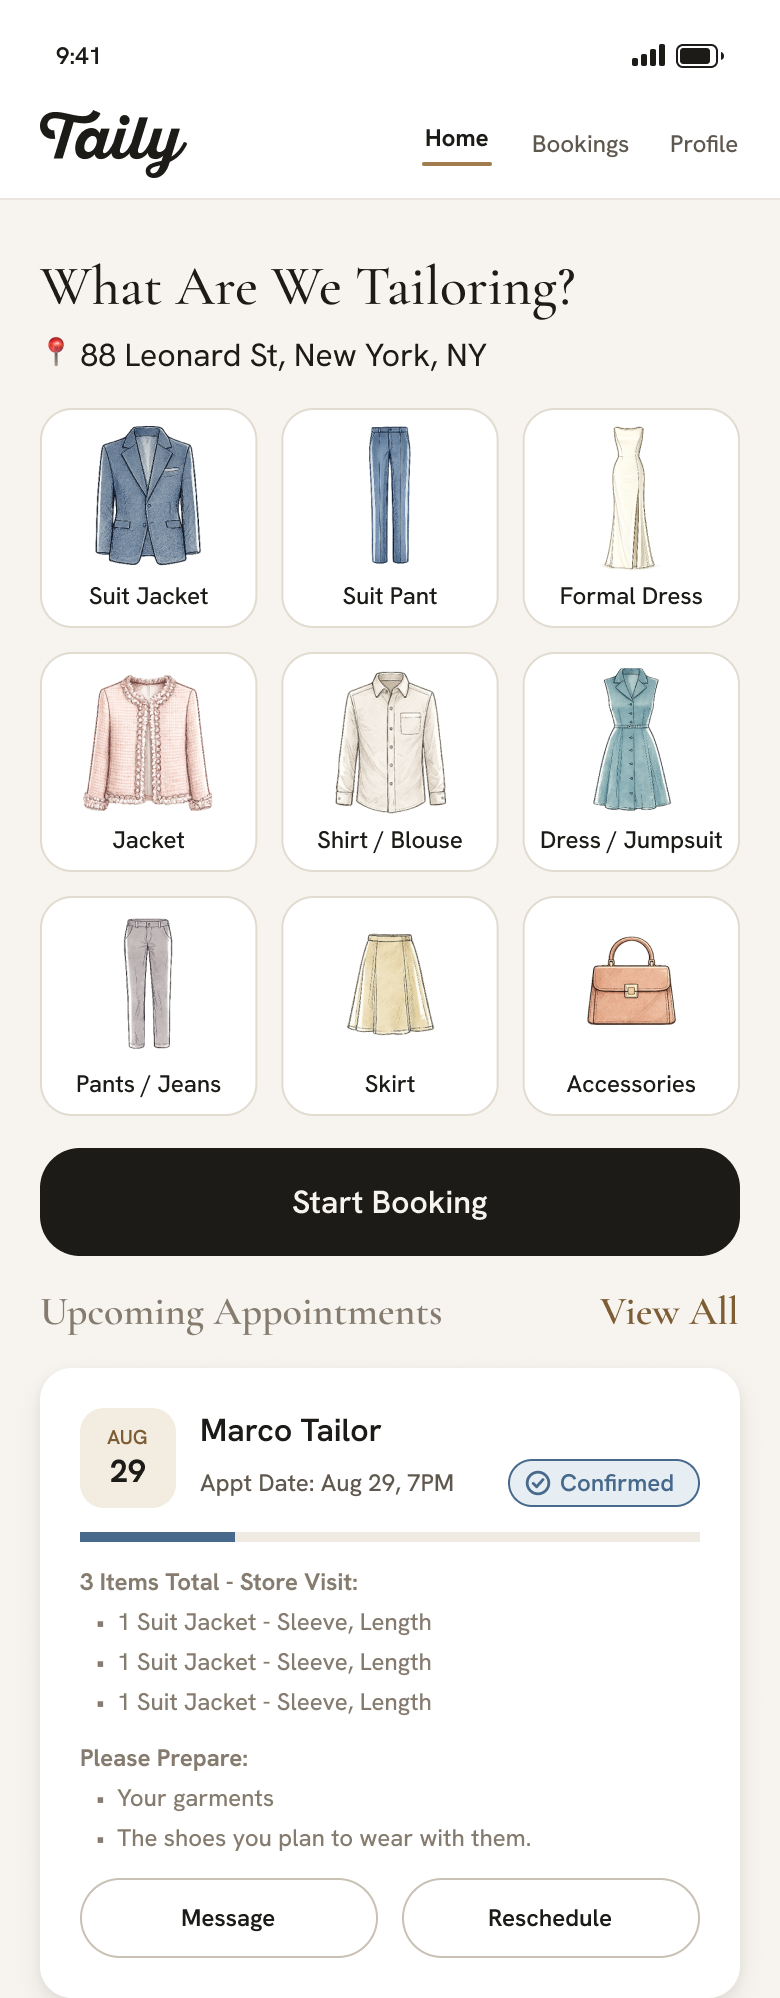
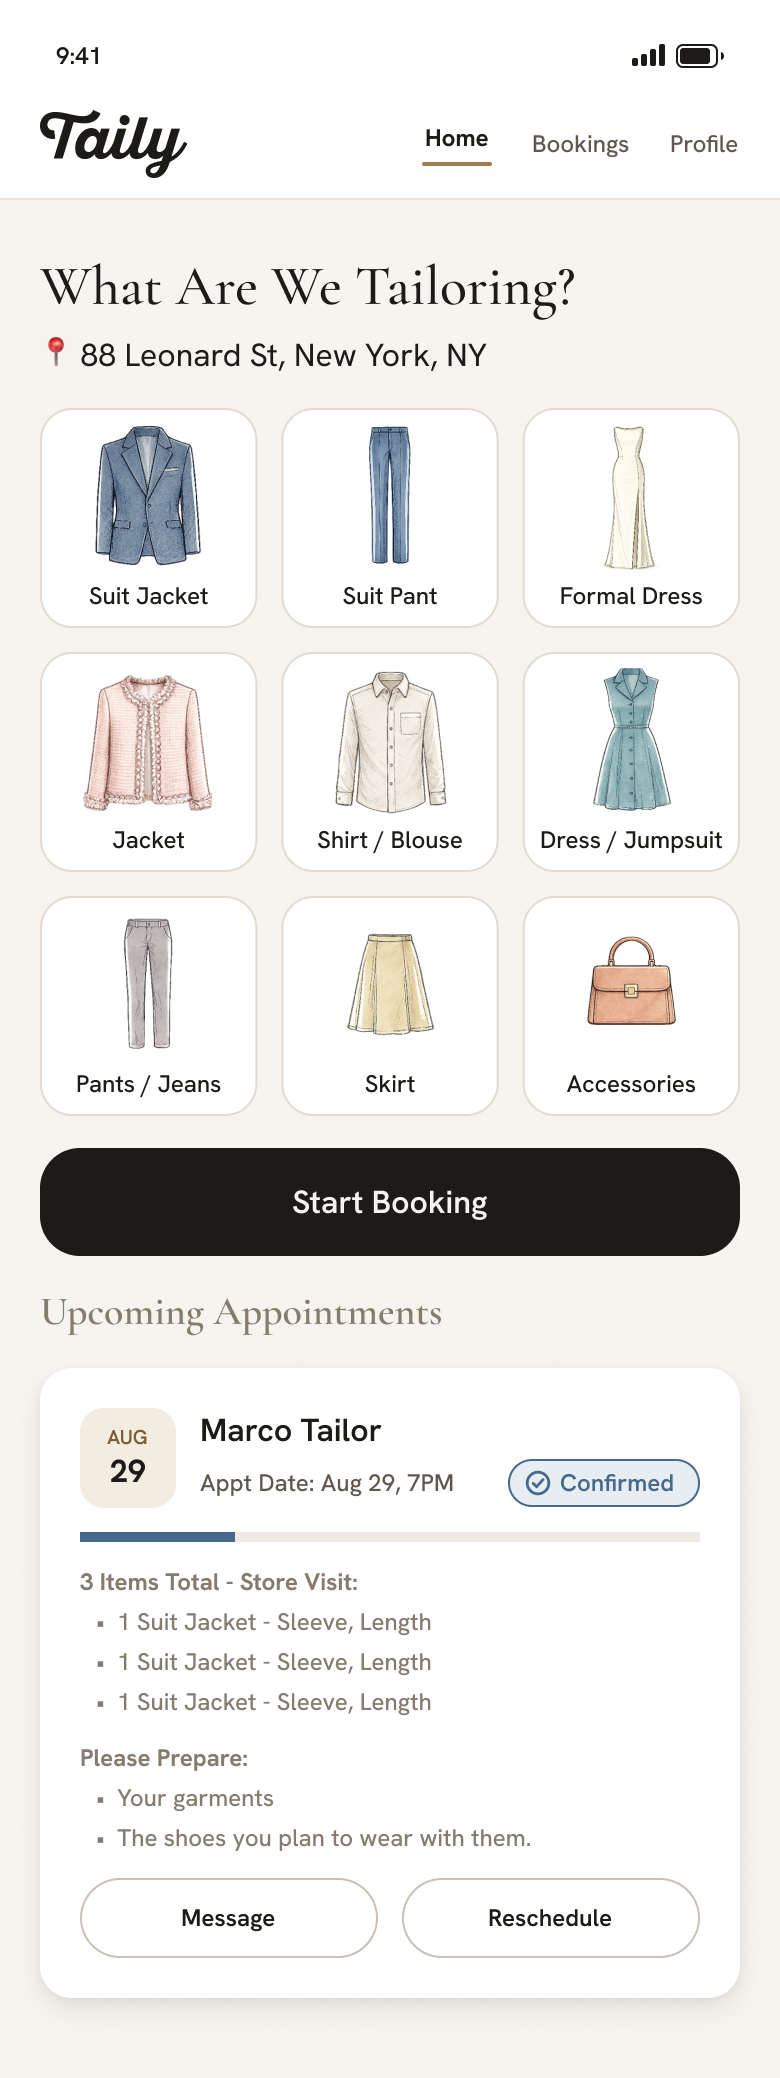
refs: m1-chat + 01-upcoming (+ REFINE.md backlog)

diff --git a/REFINE.md b/REFINE.md
@@ -1,0 +1,27 @@
+# REFINE — refinement backlog (Phase R)
+
+Classes: **T** token · **C** component · **S** screen-local · **B** behaviour/motion · **N** new screen.
+Protocol per round: Figma first → `npm run refs` → `npm run refs:check` (only the round's screens may differ) →
+code → `npm run diff -- <id> --accept` per intended screen → `npm run check` → commit.
+
+## Round 1 — `refine: m1-chat + 01-upcoming` (single light round, on main)
+
+One round by Kevin's call: total blast radius is three refs (m1, 01, 01a) across two
+independent screen groups, and the four changes are visually disjoint, so per-item
+attribution inside the diff images stays easy.
+
+- [ ] **M1 — message font size → 16** — **C**: lands in `css/components.css`
+      (`.bubble`, T2 / Chat Bubble master, currently `--size-14` → `--size-16`).
+      Blast: **m1 only** — `bubble()` renders solely in `js/screens/m1-message-tailor.js`
+      (+ the `components.html` gallery crop; verify there first, per the C rule).
+      Also retires the "bubble 14 off-scale" note lineage in CLAUDE.md.
+- [ ] **M1 — reduce padding between tailor details and header bar** — **S**:
+      per-screen top-offset override in `screens.css` (like 03/06 have). Blast: **m1**.
+- [ ] **01 & 01a — bottom padding** — **S**: scoped `[data-s="01-home"]` rule;
+      `.body` deliberately has no global bottom padding. Blast: **01 + 01a**
+      (one view, two refs — both baselines re-accepted).
+- [ ] **01 & 01a — remove "View All"** — **S**: markup removal in `view01()`
+      (its → 09 click handler goes with it; click-through never asserted it, so no B).
+      Blast: **01 + 01a**.
+
+No T items (16 is the existing `--size-16` token), no B, no N.
